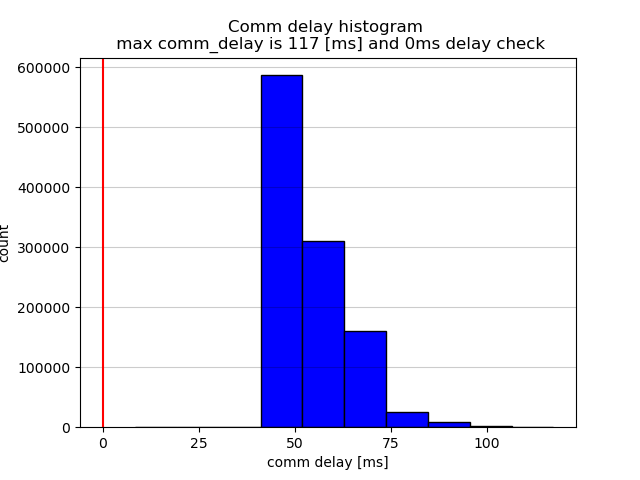
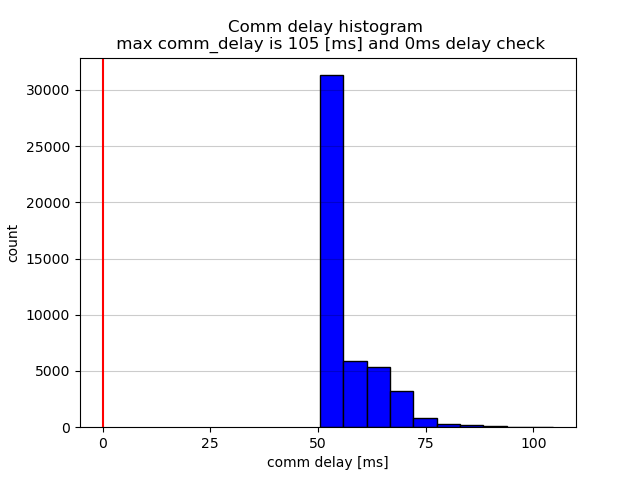
minor

diff --git a/mader/other/sim/missed_msgs_count.py b/mader/other/sim/missed_msgs_count.py
@@ -59,7 +59,7 @@ if __name__ == '__main__':
             cd_in_ms = cd/1000;
 
             if dc == 50.8:
-                str_dc = "51_3"
+                str_dc = "51_8"
             elif dc == 101.3:
                 str_dc = "101_3"
             else:
@@ -80,7 +80,6 @@ if __name__ == '__main__':
             for bag in rosbag_list:
                 rosbag.append(bag)
 
-
             # going through the rosbags
             missed_msgs_list = [] # size will be num of sims
             msgs_list = [] # size will be num of sims
@@ -91,21 +90,25 @@ if __name__ == '__main__':
                 # going through the agents
                 missed_msgs_list_per_sim = [] # size will be num_of_agents
                 msgs_list_per_sim = [] # size will be num_of_agents
-                for j in range(1,n_agents+1):
-                    if j <= 9:
-                        topic_name = "/SQ0"+str(j)+"s/mader/missed_msgs_cnt"
-                    else:
-                        topic_name = "/SQ"+str(j)+"s/mader/missed_msgs_cnt"
                 
-                    log_data = b.message_by_topic(topic_name)
+                # using missed_msgs_cnt has a racing problem 
+                # for j in range(1,n_agents+1):
+                #     if j <= 9:
+                #         topic_name = "/SQ0"+str(j)+"s/mader/missed_msgs_cnt"
+                #     else:
+                #         topic_name = "/SQ"+str(j)+"s/mader/missed_msgs_cnt"
+                
+                #     log_data = b.message_by_topic(topic_name)
 
-                    if (log_data == None):
-                        pass
-                    else:
-                        log = pd.read_csv(log_data)
-                        missed_msgs_list_per_sim.append(log.missed_msgs_cnt[0])
-                        msgs_list_per_sim.append(log.msgs_cnt[0])
-                        # print(log.missed_msgs_cnt[0])
+                #     if (log_data == None):
+                #         pass
+                #     else:
+                #         log = pd.read_csv(log_data)
+                #         missed_msgs_list_per_sim.append(log.missed_msgs_cnt[0])
+                #         msgs_list_per_sim.append(log.msgs_cnt[0])
+                #         # print(log.missed_msgs_cnt[0])
+
+                
 
                 ave_missed_msgs_cnt = sum(missed_msgs_list_per_sim)/len(missed_msgs_list_per_sim)
                 ave_msgs_cnt = sum(msgs_list_per_sim)/len(msgs_list_per_sim)

diff --git a/mader/other/sim/comm_delay_histogram_percentile.py b/mader/other/sim/comm_delay_histogram_percentile.py
@@ -58,7 +58,7 @@ if __name__ == '__main__':
             input_comm_delay = dc/1000
 
             if dc == 50.8:
-                str_dc = "51_3"
+                str_dc = "51_8"
             elif dc == 101.3:
                 str_dc = "101_3"
             else:
@@ -94,10 +94,13 @@ if __name__ == '__main__':
                     else:
                         log_data = b.message_by_topic("/SQ" + str(i) + "s/mader/comm_delay")
 
-                    log = pd.read_csv(log_data)
+                    try:
+                        log = pd.read_csv(log_data)
 
-                    for j in range(len(log.comm_delay)):
-                        comm_delay.append(log.comm_delay[j])
+                        for j in range(len(log.comm_delay)):
+                            comm_delay.append(log.comm_delay[j])
+                    except:
+                        pass
 
             # print percentile
 
@@ -134,6 +137,7 @@ if __name__ == '__main__':
                 plt.xlabel("comm delay [ms]")
                 plt.ylabel("count")
                 plt.savefig('/home/kota/ws/src/mader/mader/other/sim/data/'+figname)
+                plt.close('all')
                 # plt.show()
             except:
                 pass

diff --git a/mader/scripts/run_many_sims_multi_agent.py b/mader/scripts/run_many_sims_multi_agent.py
@@ -38,7 +38,7 @@ if __name__ == '__main__':
 
     # parameters
     is_oldmader=True
-    num_of_sims=1
+    num_of_sims=5
     num_of_agents=10
     how_long_to_wait = 20 #[s]
     if is_oldmader:
@@ -73,7 +73,7 @@ if __name__ == '__main__':
             cd_in_ms = cd/1000;
 
             if dc == 50.8:
-                str_dc = "51_3"
+                str_dc = "51_8"
             elif dc == 101.3:
                 str_dc = "101_3"
             else:

diff --git a/mader/other/sim/ave_distance_csv2txt.py b/mader/other/sim/ave_distance_csv2txt.py
@@ -56,7 +56,7 @@ if __name__ == '__main__':
             cd_in_ms = cd/1000;
 
             if dc == 50.8:
-                str_dc = "51_3"
+                str_dc = "51_8"
             elif dc == 101.3:
                 str_dc = "101_3"
             else:

diff --git a/mader/other/sim/collision_check.py b/mader/other/sim/collision_check.py
@@ -54,7 +54,7 @@ if __name__ == '__main__':
             collision_cnt = 0
 
             if dc == 50.8:
-                str_dc = "51_3"
+                str_dc = "51_8"
             elif dc == 101.3:
                 str_dc = "101_3"
             else:

diff --git a/mader/other/sim/completion_time.py b/mader/other/sim/completion_time.py
@@ -54,7 +54,7 @@ if __name__ == '__main__':
         for dc in dc_list:
 
             if dc == 50.8:
-                str_dc = "51_3"
+                str_dc = "51_8"
             elif dc == 101.3:
                 str_dc = "101_3"
             else:
